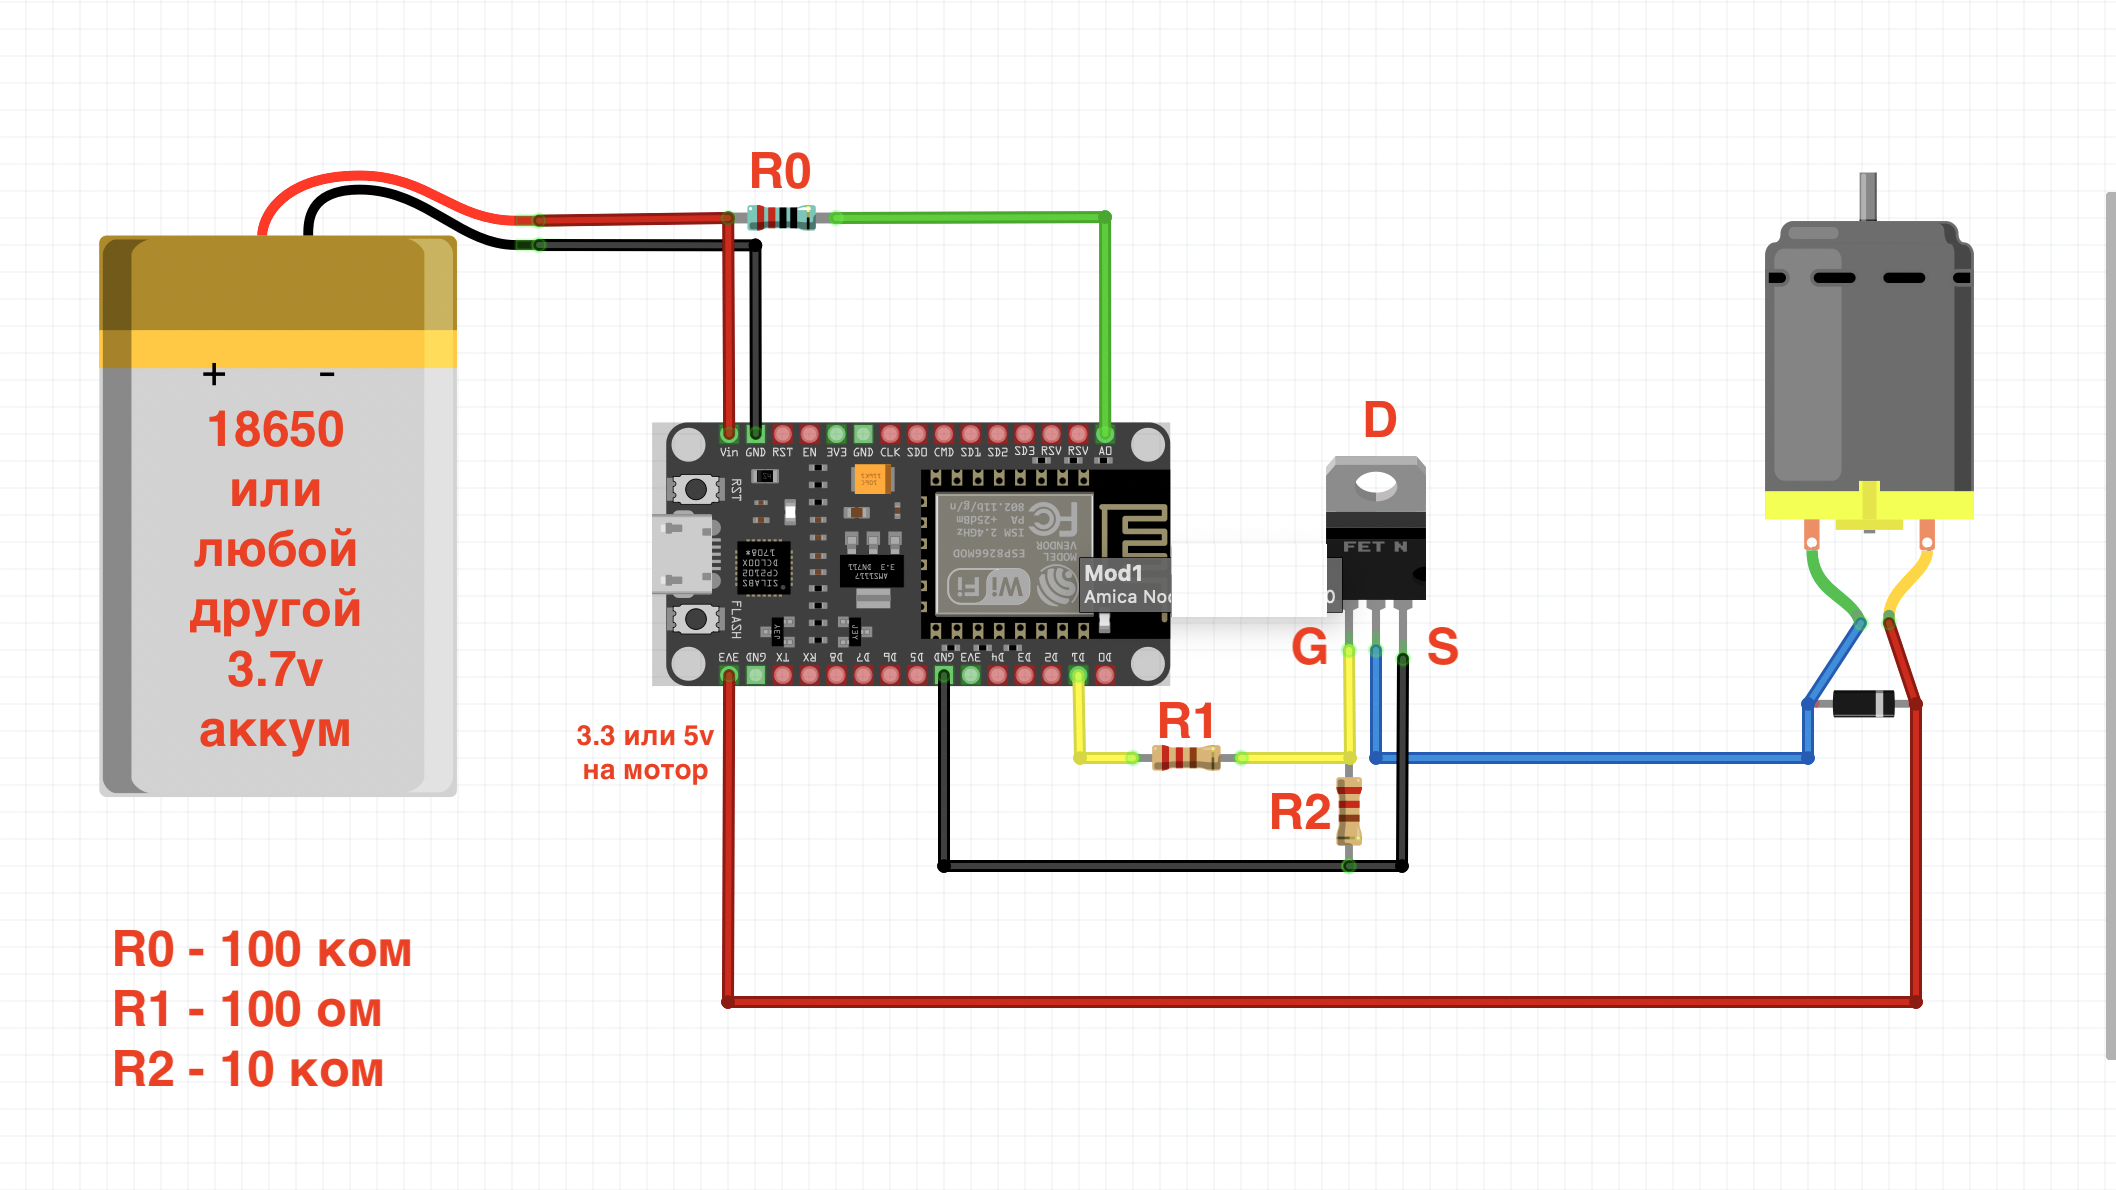
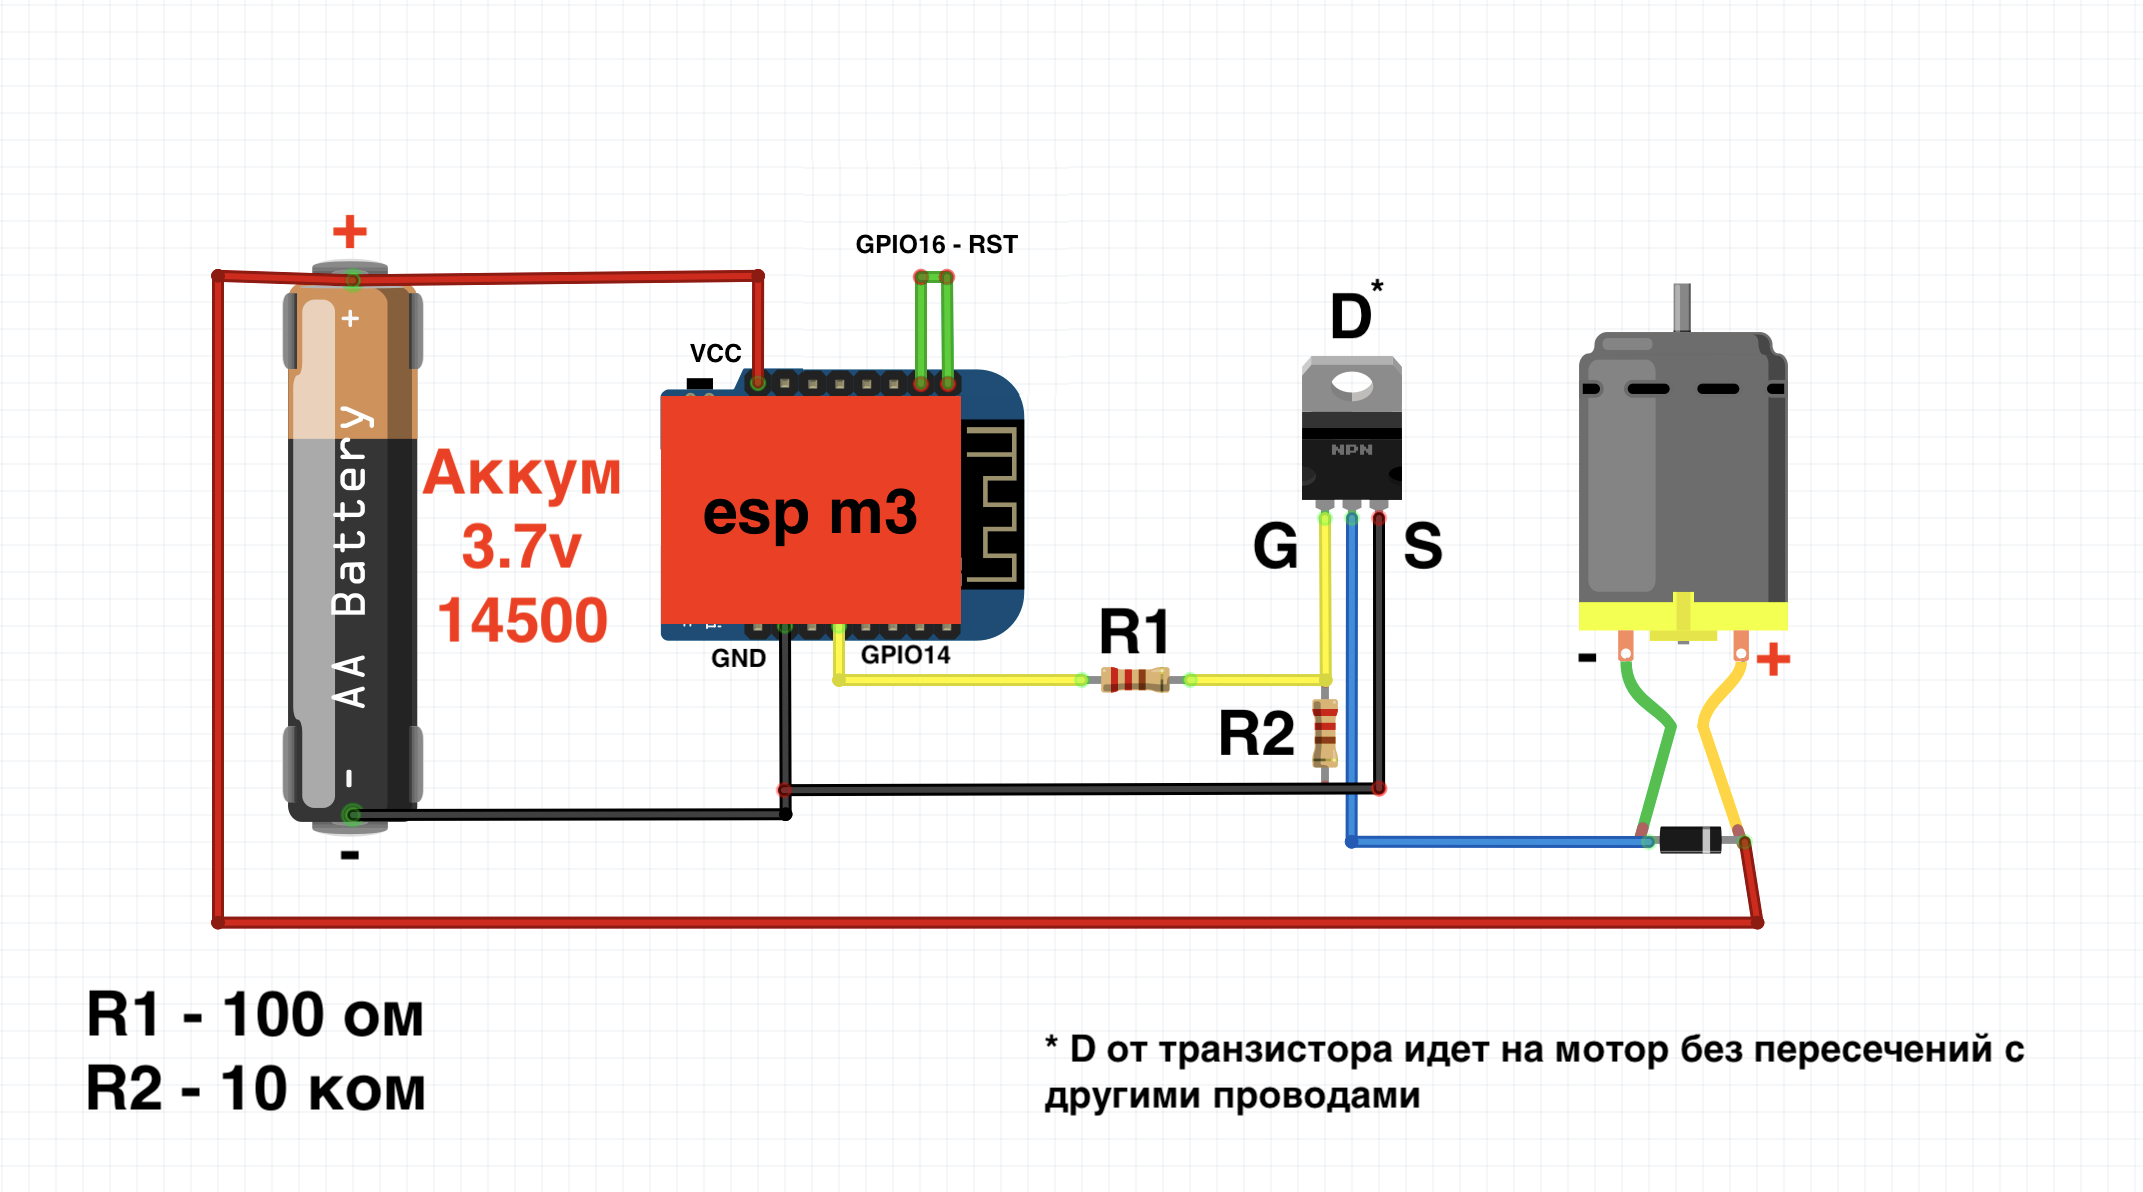
Update schema and add photos

Changed region(s): [[0.0312, 0.1244, 0.9669, 0.9328], [0.9981, 0.1555, 1.0, 0.9017]]

diff --git a/airfreshener/README.md b/airfreshener/README.md
@@ -4,9 +4,9 @@
 
 ![Схема:](scheme.png)
 
-ESP
+ESP M3
 
-Аккумулятор
+Аккумулятор 3.7v формата 14500
 
 Транзистор
 
